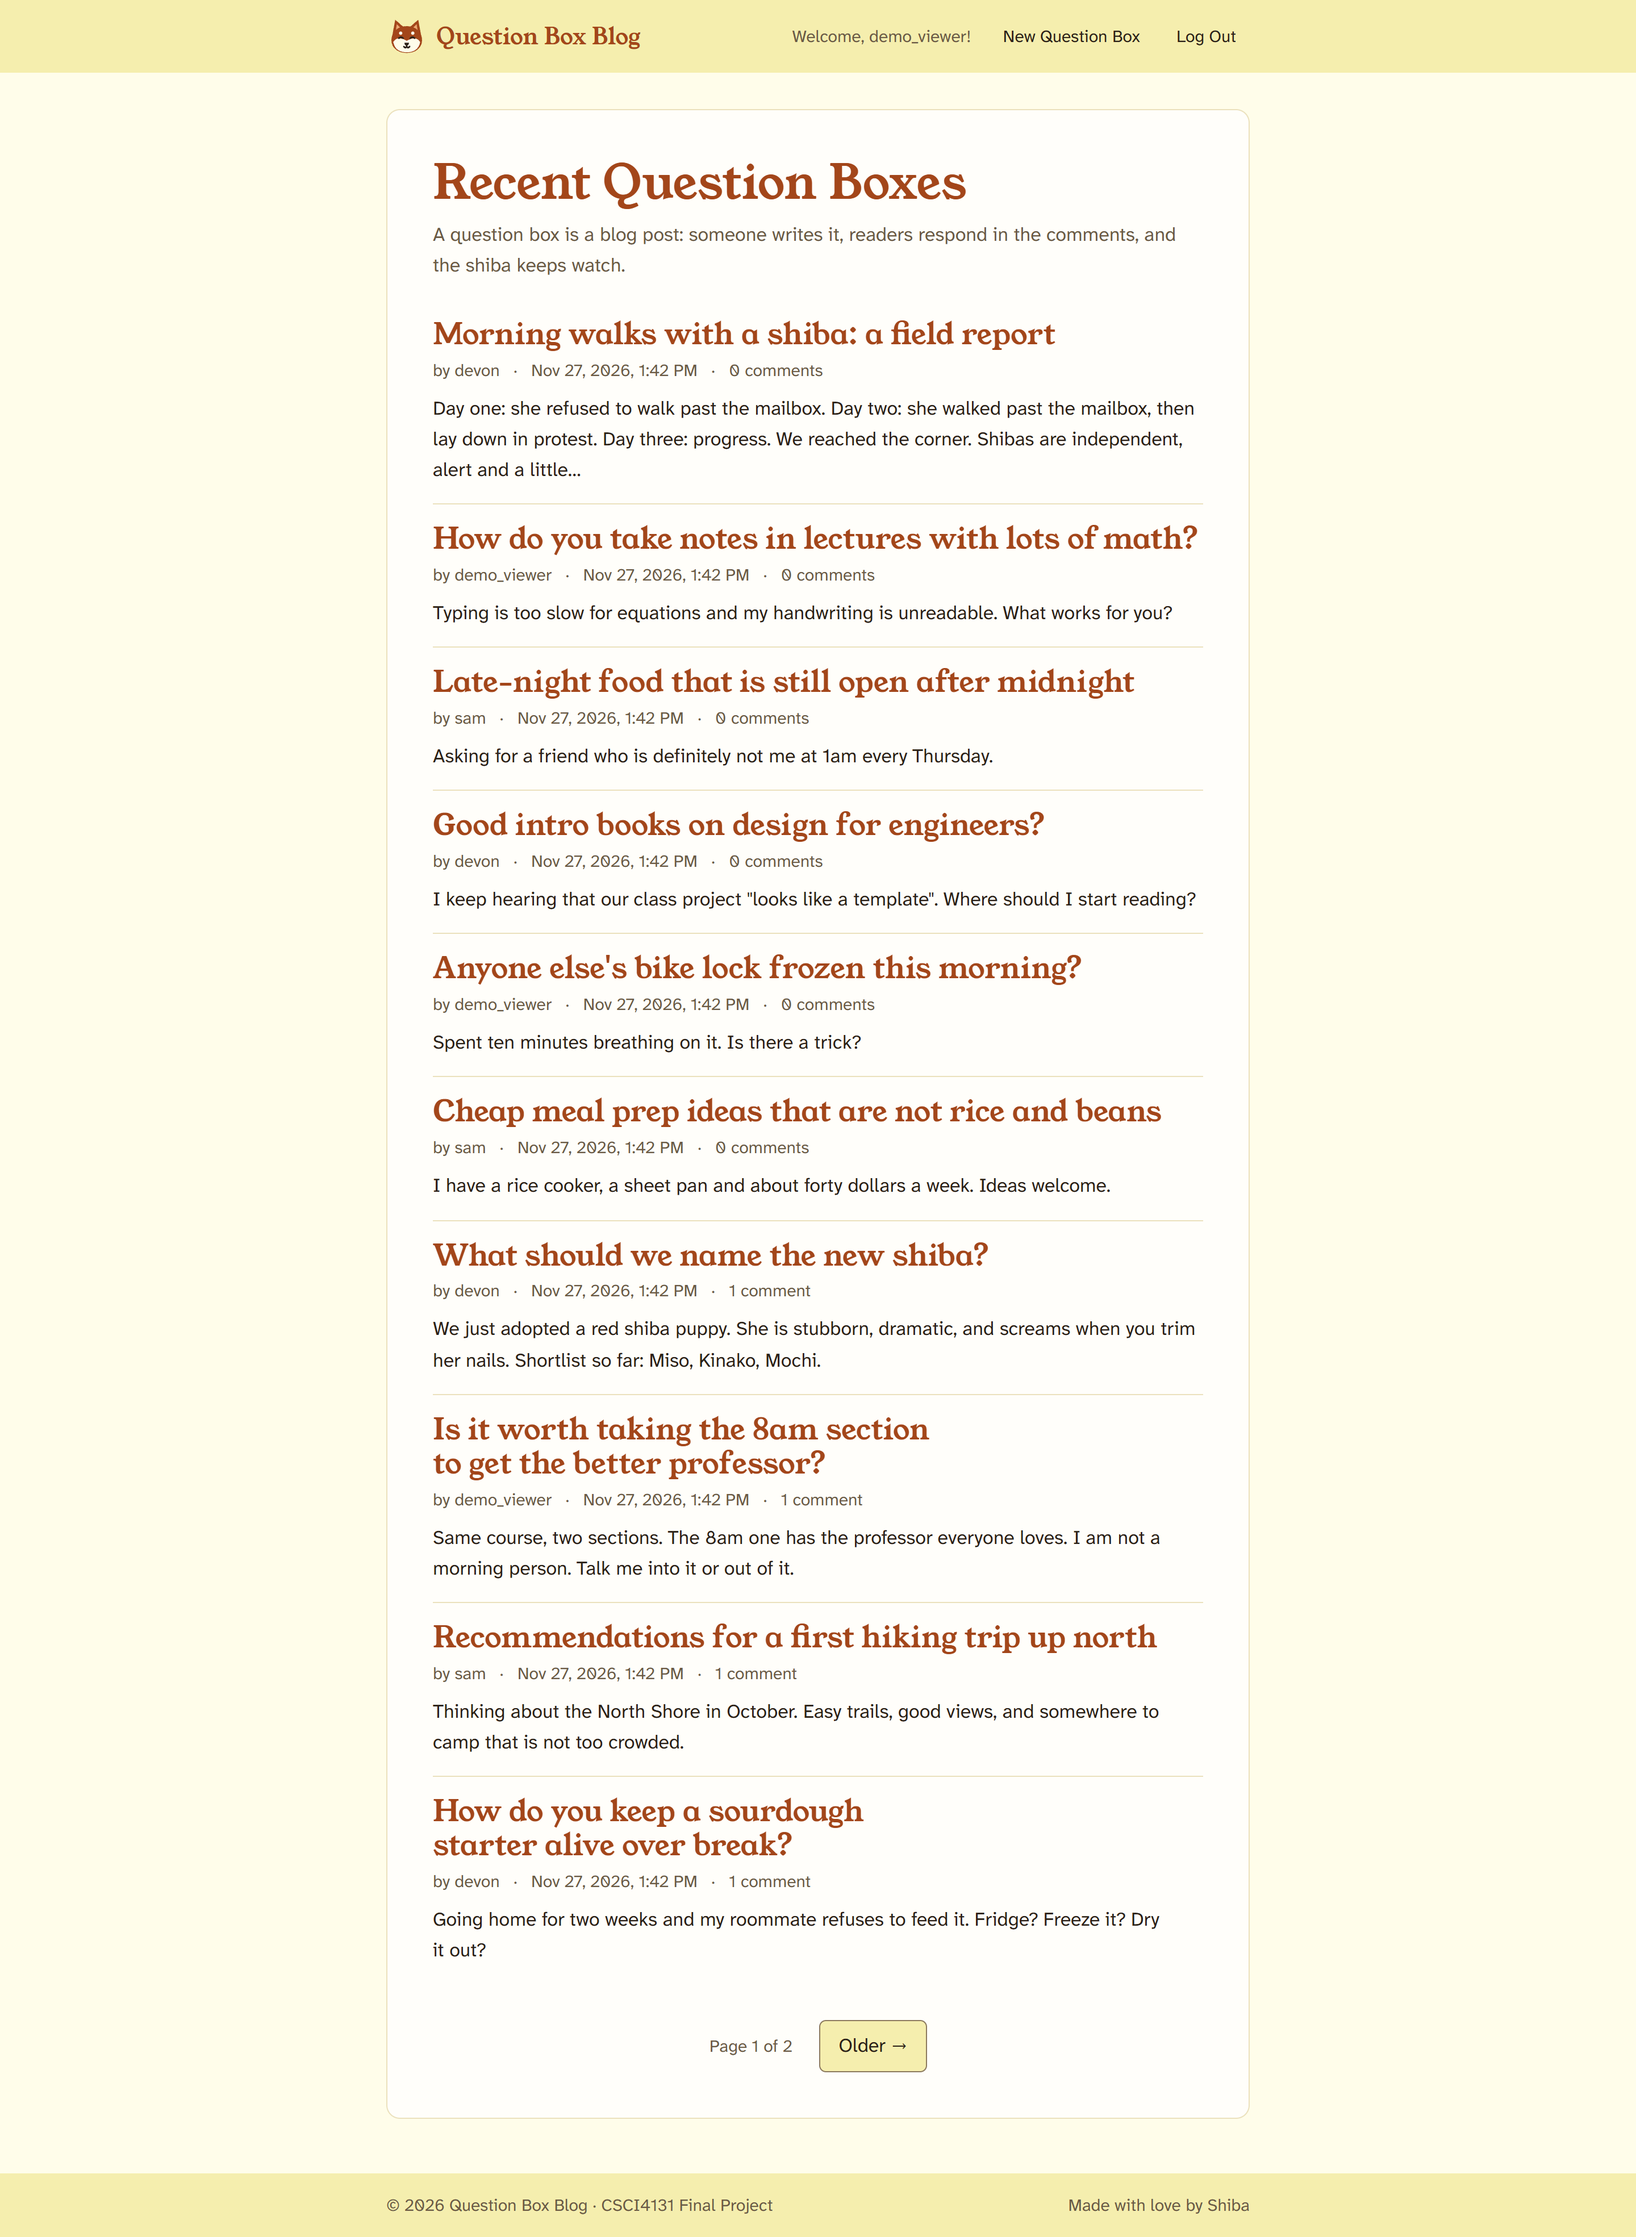
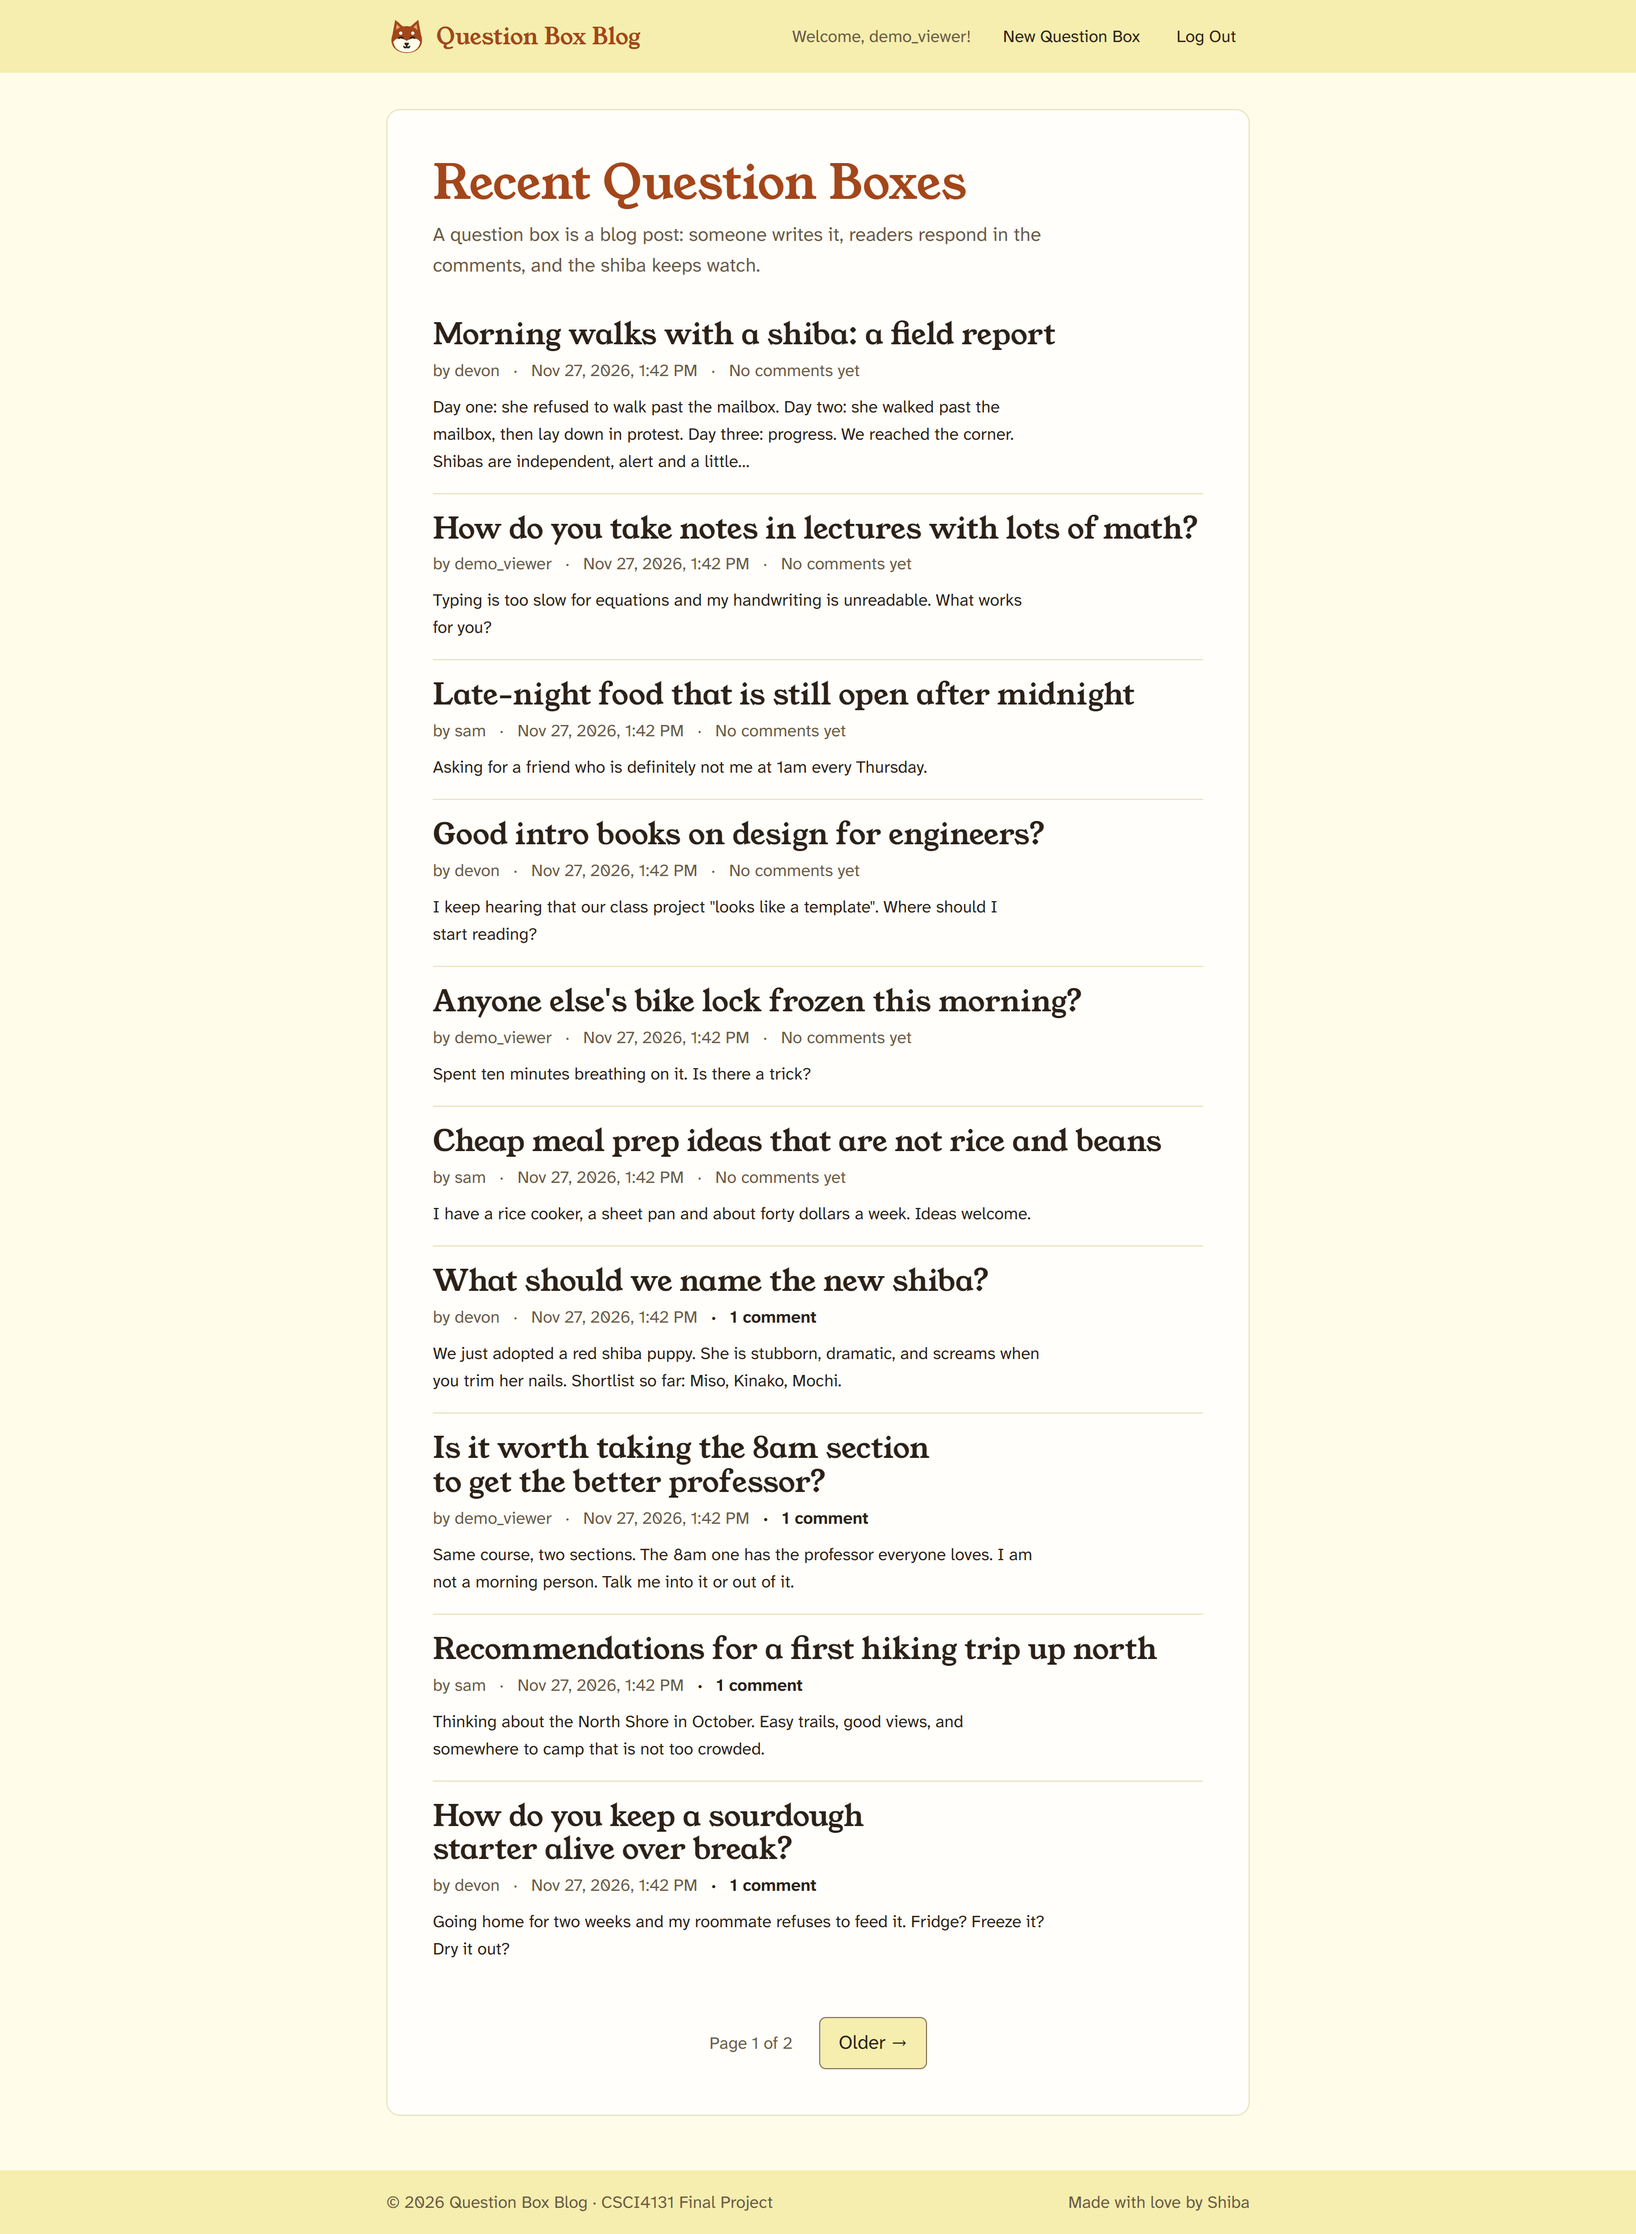
style: Give the question box list a real hierarchy
From the re-run critique (28/40), P2 "monotone list hierarchy", via
/impeccable typeset:

- List titles are Shiba Black at rest and turn red-tan with an underline
  on hover or focus. Red-tan stays on the page h1, brand, links and the
  primary button, so it keeps meaning "act here".
- A non-zero comment count is bold ink; "No comments yet" stays muted,
  so rows with a conversation stand out.
- Previews step down to --text-sm.
- --measure is 56ch (about 73 Atkinson characters; 70ch was ~91) for
  bodies, comments, previews and intro lines. Clears the detector's
  line-length warning.
- DESIGN.md and the "after" screenshots updated to match.

Changed region(s): [[0.25, 0.0931, 0.75, 0.8688]]

diff --git a/resources/css/main.css b/resources/css/main.css
@@ -72,7 +72,10 @@
   --weight-regular: 400;
   --weight-bold: 700;
 
-  --measure: 70ch; /* post body reading width */
+  /* Reading width for bodies, comments, previews and intro lines. `ch` is
+   * the width of a "0", wider than Atkinson's average letter, so 56ch
+   * holds about 73 characters: inside the 45-75 range. */
+  --measure: 56ch;
 
   /* ---- space and layout ---- */
   --space-1: 4px;
@@ -425,7 +428,7 @@ a:hover {
 .home-intro {
   margin-top: var(--space-2);
   color: var(--color-ink-muted);
-  max-width: 60ch;
+  max-width: var(--measure);
 }
 
 .post-list {
@@ -437,7 +440,10 @@ a:hover {
   border-top: 1px solid var(--color-border);
 }
 
-/* The whole item is one link: the title's ::after covers the card. */
+/* The whole item is one link: the title's ::after covers the card.
+ * Hierarchy: serif title in ink (red-tan only on hover/focus, so the accent
+ * keeps meaning "act here"), then a muted meta line where activity stands
+ * out, then a smaller preview. */
 .post-card {
   position: relative;
   padding-block: var(--space-4);
@@ -449,7 +455,7 @@ a:hover {
 }
 
 .post-title a {
-  color: var(--color-accent);
+  color: var(--color-ink);
   text-decoration: none;
 }
 
@@ -459,8 +465,9 @@ a:hover {
   inset: 0;
 }
 
-.post-card:hover .post-title a {
-  color: var(--color-accent-hover);
+.post-card:hover .post-title a,
+.post-title a:focus-visible {
+  color: var(--color-accent);
   text-decoration: underline;
   text-decoration-thickness: 1px;
 }
@@ -488,9 +495,16 @@ a:hover {
   margin-right: var(--space-3);
 }
 
+/* Question boxes with a conversation stand out from quiet ones. */
+.comment-count.has-comments {
+  color: var(--color-ink);
+  font-weight: var(--weight-bold);
+}
+
 .post-preview {
   margin-top: var(--space-2);
   max-width: var(--measure);
+  font-size: var(--text-sm);
   display: -webkit-box;
   -webkit-box-orient: vertical;
   -webkit-line-clamp: 3;
@@ -787,7 +801,7 @@ a:hover {
 .form-intro {
   margin-top: var(--space-2);
   color: var(--color-ink-muted);
-  max-width: 60ch;
+  max-width: var(--measure);
 }
 
 .auth-form,

diff --git a/DESIGN.md b/DESIGN.md
@@ -130,13 +130,13 @@ components:
 
 Every color in the app comes from a Shiba Inu. The page is the pale cream undercoat (urajiro), the header and footer bands are the sesame-light yellow, the ink is the black of a black-and-tan Shiba, and the single strong accent is the red coat. The owner chose this palette and asked for it to be kept and developed. It is the identity, not a placeholder to be replaced.
 
-The app is a working blog that people watch over a screen share, so color does structural work. Two surfaces, one strong accent and dark warm ink keep it legible through video compression and at thumbnail size. The red-tan marks what you can read next or act on: titles, the brand, primary buttons. Everything else stays quiet so the accent stays loud.
+The app is a working blog that people watch over a screen share, so color does structural work. Two surfaces, one strong accent and dark warm ink keep it legible through video compression and at thumbnail size. The red-tan marks what you act on: page headings, the brand, links, primary buttons, and a list title the moment you point at it. Everything else stays quiet so the accent stays loud.
 
 The type, layout and Shiba motif follow the same idea: warm and friendly at a glance, calm and legible while reading. Every value lives as a token on `:root` in `resources/css/main.css`.
 
 **Key Characteristics:**
 - Warm cream canvas with one paper-white content surface. No grey anywhere.
-- One strong red-tan accent for titles, the brand, links and the primary action.
+- One strong red-tan accent for page headings, the brand, links and the primary action.
 - Quiet sesame-yellow secondary for everyday actions (Edit, Reply, Cancel, pagination).
 - Red appears only on Delete.
 - Every text and control pair meets WCAG AA, most well above it.
@@ -146,7 +146,7 @@ The type, layout and Shiba motif follow the same idea: warm and friendly at a gl
 A warm, low-chroma family pulled from one dog's coat, with a single saturated red-tan doing all the pointing.
 
 ### Primary
-- **Shiba Red-Tan** (`shiba-red-tan`): the accent. Used for question box titles, page headings, the brand and the Shiba mark's coat, inline links, the 404 numeral, the outline of the admin's anonymous-author reveal, and the fill of the primary button. It reaches 6.0:1 on the paper surface, 5.9:1 on the cream page and 5.1:1 on the yellow band.
+- **Shiba Red-Tan** (`shiba-red-tan`): the accent. Used for page headings (including the question box title on its own page), list titles on hover and focus, the brand and the Shiba mark's coat, inline links, the 404 numeral, the outline of the admin's anonymous-author reveal, and the fill of the primary button. It reaches 6.0:1 on the paper surface, 5.9:1 on the cream page and 5.1:1 on the yellow band.
 - **Deep Red-Tan** (`shiba-red-tan-deep`): accent hover and the focus ring. 7.9:1 on paper.
 - **Tan on Black** (`shiba-tan-light`): the accent as it appears on the black coat. Used only on dark fills such as the admin badge (7.8:1 on Shiba Black).
 
@@ -219,9 +219,10 @@ Line heights: `--leading-tight` 1.15 (headings), `--leading-snug` 1.35 (buttons,
 
 ### Rules
 - Headings are display, weight 400, `text-wrap: balance`. Body text uses `text-wrap: pretty`.
-- Post bodies are capped at `--measure` (70ch) and keep `white-space: pre-wrap`.
+- Bodies, comments, list previews and intro lines are capped at `--measure` (56ch). `ch` is the width of a "0", wider than Atkinson's average letter, so 56ch holds about 73 characters. Post bodies keep `white-space: pre-wrap`.
 - Titles, bodies, comments and author names use `overflow-wrap: anywhere`, so one very long word wraps instead of overflowing.
-- Meta lines (author · date · comments) are `--text-sm` in Bark, separated by middle dots. They support the title and never compete with it.
+- Meta lines (author · date · comments) are `--text-sm` in Bark, separated by middle dots. They support the title and never compete with it. In the list, a non-zero comment count is bold Shiba Black ("No comments yet" stays muted), so rows with a conversation stand out.
+- **List hierarchy:** title in Young Serif `--text-lg`, Shiba Black, turning red-tan with an underline on hover or focus; then the meta line; then the preview at `--text-sm`. Every list title in red-tan made the list a monotone wall, so the accent is reserved for the page h1 and for the row under the pointer.
 - Dates use one format everywhere, with no seconds: `Nov 27, 2026, 3:04 PM` (`formatDate` in `server.js`, the same `Intl.DateTimeFormat` options in `main.js`). They render in `<time datetime>`.
 
 ## Layout
@@ -299,7 +300,7 @@ The Shiba is the identity anchor. It is an original geometric head (triangle ear
 
 ### Do:
 - **Do** use the semantic roles in `:root` for every color, and add a new role before adding a one-off value.
-- **Do** keep red-tan for things the reader reads next or acts on: titles, the brand, links and the one primary action.
+- **Do** keep red-tan for things the reader acts on: page headings, the brand, links, the one primary action, and the list row under the pointer. List titles at rest are ink.
 - **Do** check every new text pair against 4.5:1 (3:1 for large text and control outlines) on the surface it actually sits on, including the yellow band.
 - **Do** separate items inside the content surface with hairline dividers and space.
 - **Do** develop the Shiba identity (coat colors, Shiba motifs) rather than introducing an unrelated palette.
